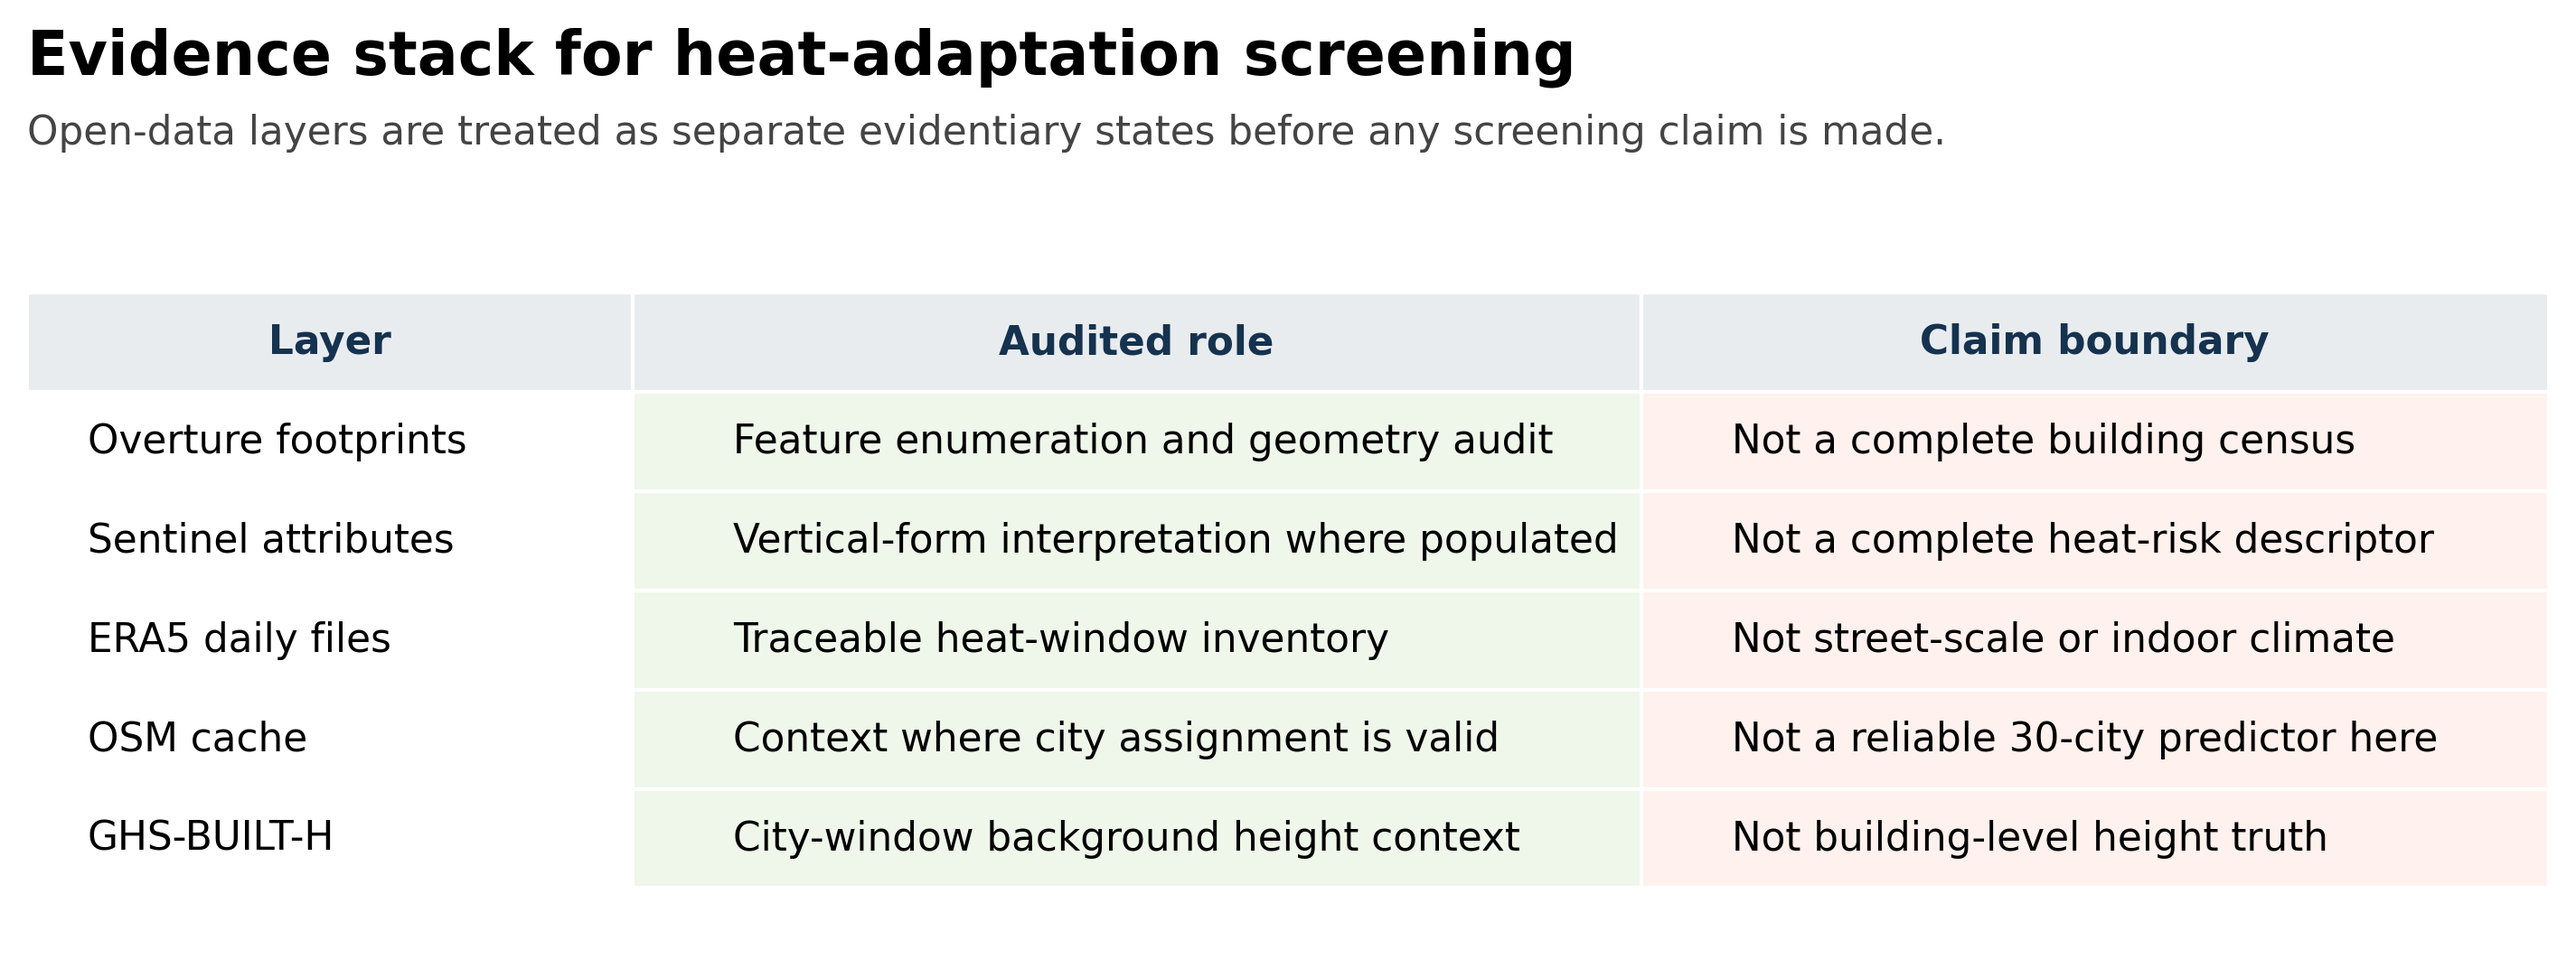
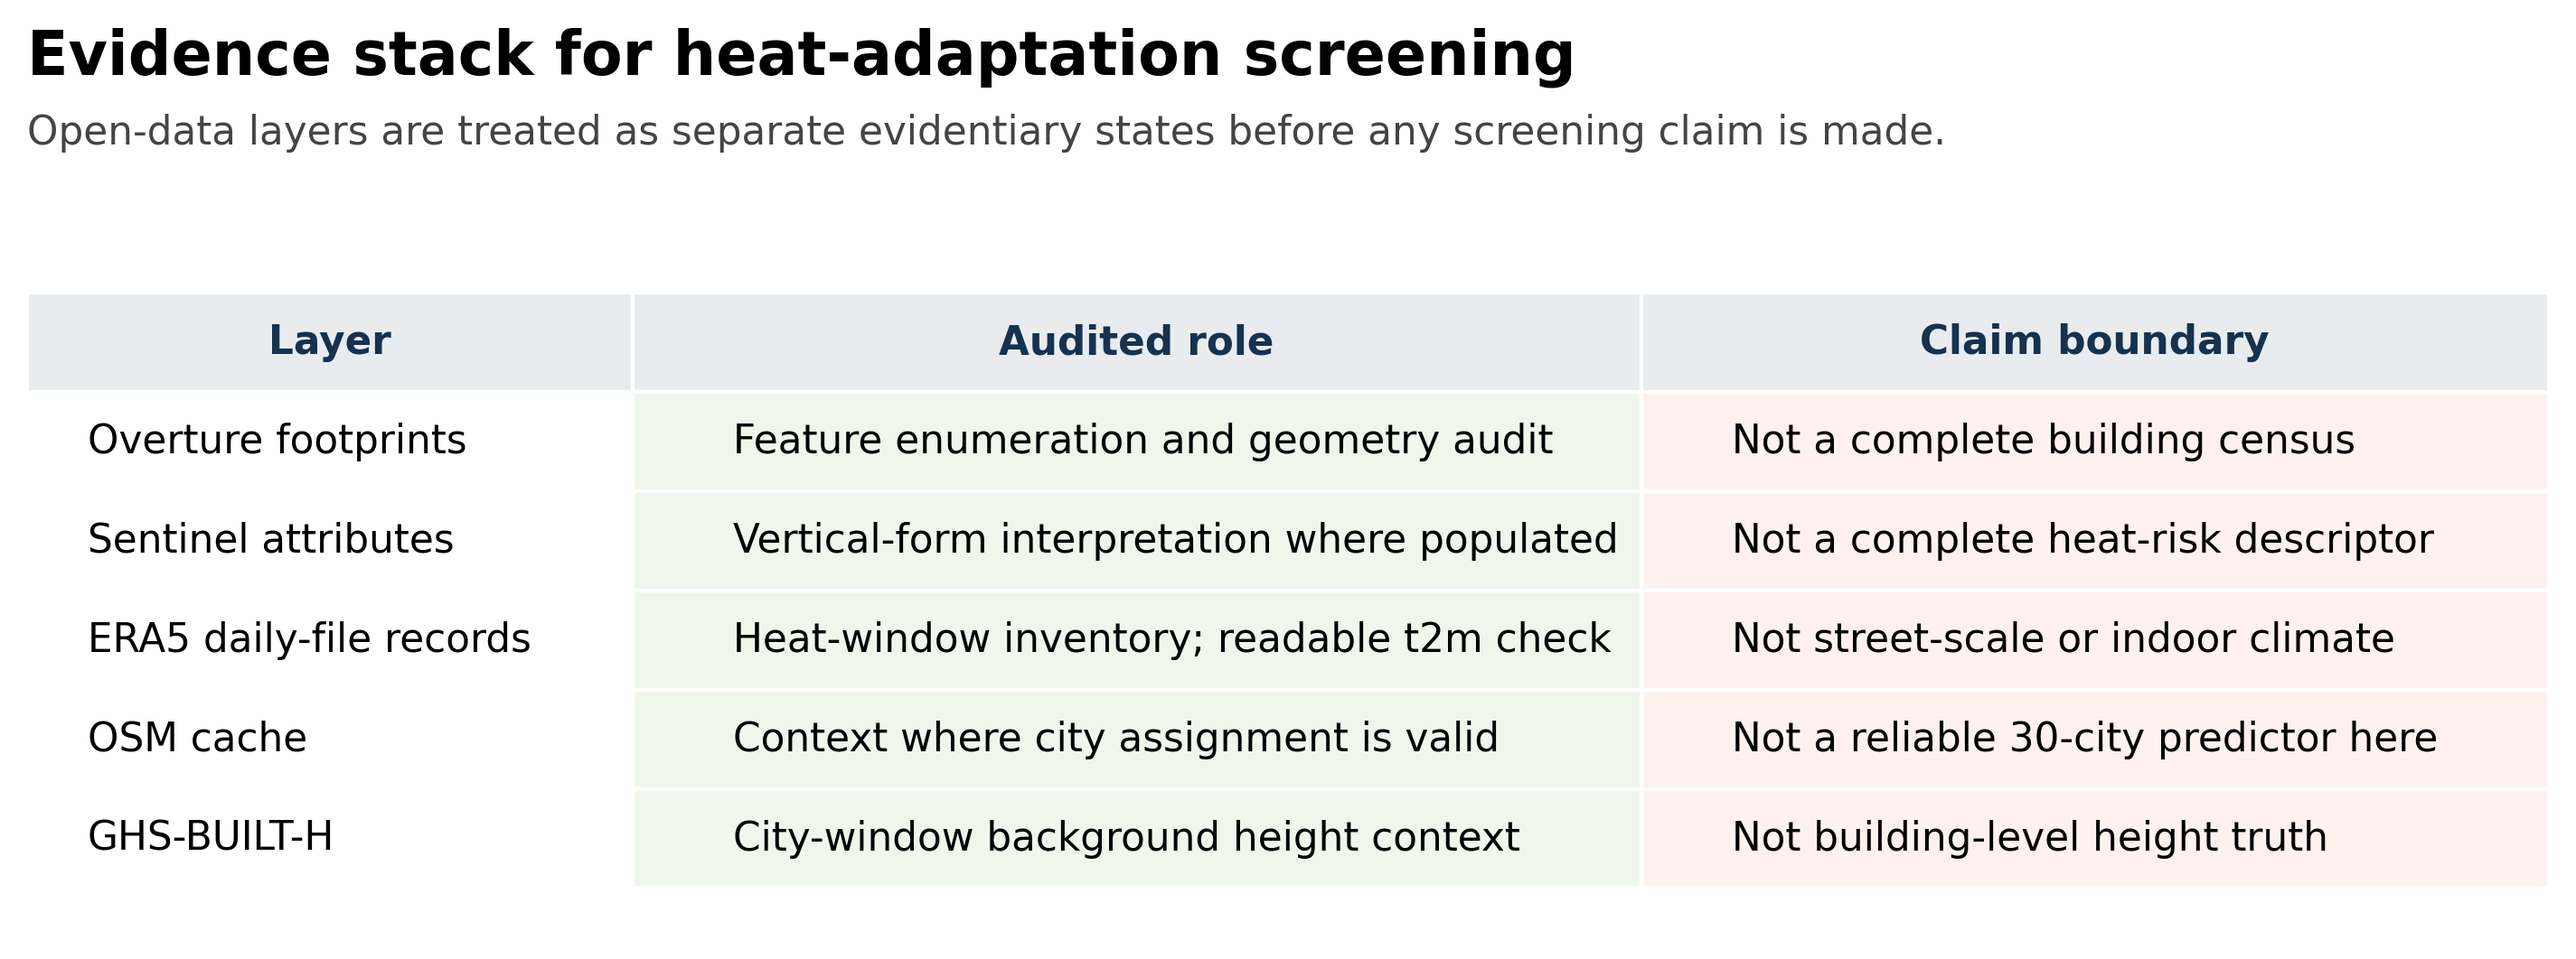
Add ERA5 heat-window readability summary

Changed region(s): [[0.2811, 0.6525, 0.6246, 0.6836], [0.1249, 0.6525, 0.2186, 0.6836]]

diff --git a/scripts/compute_era5_heat_window_summary.py b/scripts/compute_era5_heat_window_summary.py
@@ -1,0 +1,235 @@
+"""Compute a bounded ERA5 2 m temperature heat-window summary.
+
+The manuscript's A2 table is a file-level inventory. This script performs a
+separate readability and heat-indicator check on physical ERA5 files currently
+present in the local project tree. Some downloaded files are ZIP containers
+with an embedded NetCDF member, so the reader handles both plain NetCDF and
+ZIP-wrapped NetCDF inputs.
+"""
+
+from __future__ import annotations
+
+import argparse
+import csv
+import re
+import shutil
+import tempfile
+import zipfile
+from collections import defaultdict
+from datetime import datetime
+from pathlib import Path
+
+import numpy as np
+import xarray as xr
+
+
+PROJECT_DEFAULT = Path(__file__).resolve().parents[1]
+ERA5_NAME_RE = re.compile(r"(?P<city>.+?)_era5_(?P<date>\d{8})\.nc$", re.I)
+EXCLUDE_PARTS = {
+    ".git",
+    ".venv",
+    "venv",
+    "__pycache__",
+    "github_reproducibility_urban_climate",
+    "submission_urban_climate_2026-05-15",
+}
+
+
+def is_candidate(path: Path) -> bool:
+    if path.suffix.lower() != ".nc":
+        return False
+    if not ERA5_NAME_RE.match(path.name):
+        return False
+    lower_parts = {part.lower() for part in path.parts}
+    return not any(part.lower() in lower_parts for part in EXCLUDE_PARTS)
+
+
+def open_dataset(path: Path):
+    """Open a plain NetCDF file or a ZIP-wrapped NetCDF file."""
+    tmpdir = None
+    try:
+        if zipfile.is_zipfile(path):
+            tmpdir = Path(tempfile.mkdtemp(prefix="era5_zip_"))
+            with zipfile.ZipFile(path) as zf:
+                members = [name for name in zf.namelist() if name.lower().endswith(".nc")]
+                if not members:
+                    raise ValueError("ZIP container has no .nc member")
+                zf.extract(members[0], tmpdir)
+                target = tmpdir / members[0]
+        else:
+            target = path
+        ds = xr.open_dataset(target, engine="netcdf4")
+        return ds, tmpdir
+    except Exception:
+        if tmpdir is not None:
+            shutil.rmtree(tmpdir, ignore_errors=True)
+        raise
+
+
+def celsius(values: xr.DataArray) -> xr.DataArray:
+    units = str(values.attrs.get("units", "")).strip().lower()
+    if units in {"k", "kelvin"}:
+        return values - 273.15
+    return values
+
+
+def file_record(path: Path) -> dict[str, object]:
+    match = ERA5_NAME_RE.match(path.name)
+    if not match:
+        raise ValueError(f"Cannot parse ERA5 filename: {path.name}")
+    city = match.group("city")
+    date = datetime.strptime(match.group("date"), "%Y%m%d").date().isoformat()
+    record: dict[str, object] = {
+        "city": city,
+        "date": date,
+        "filename": path.name,
+        "readable": False,
+        "error": "",
+    }
+    tmpdir = None
+    ds = None
+    try:
+        ds, tmpdir = open_dataset(path)
+        if "t2m" not in ds.data_vars:
+            raise ValueError("t2m variable not found")
+        t2m = celsius(ds["t2m"])
+        record.update(
+            {
+                "readable": True,
+                "time_steps": int(t2m.sizes.get("valid_time", t2m.sizes.get("time", 0))),
+                "lat_points": int(t2m.sizes.get("latitude", 0)),
+                "lon_points": int(t2m.sizes.get("longitude", 0)),
+                "mean_t2m_c": round(float(t2m.mean(skipna=True).values), 3),
+                "max_t2m_c": round(float(t2m.max(skipna=True).values), 3),
+                "p95_t2m_c": round(float(t2m.quantile(0.95, skipna=True).values), 3),
+            }
+        )
+    except Exception as exc:
+        record["error"] = repr(exc)
+    finally:
+        if ds is not None:
+            ds.close()
+        if tmpdir is not None:
+            shutil.rmtree(tmpdir, ignore_errors=True)
+    return record
+
+
+def summarise(records: list[dict[str, object]]) -> list[dict[str, object]]:
+    by_city: dict[str, list[dict[str, object]]] = defaultdict(list)
+    for row in records:
+        by_city[str(row["city"])].append(row)
+    summary = []
+    for city, rows in sorted(by_city.items()):
+        readable = [row for row in rows if row.get("readable")]
+        dates = sorted(str(row["date"]) for row in readable)
+        max_values = np.array([float(row["max_t2m_c"]) for row in readable], dtype=float)
+        mean_values = np.array([float(row["mean_t2m_c"]) for row in readable], dtype=float)
+        if readable:
+            summary.append(
+                {
+                    "city": city,
+                    "physical_files_found": len(rows),
+                    "readable_temperature_files": len(readable),
+                    "first_readable_date": dates[0],
+                    "last_readable_date": dates[-1],
+                    "mean_daily_mean_t2m_c": round(float(mean_values.mean()), 3),
+                    "p95_daily_max_t2m_c": round(float(np.quantile(max_values, 0.95)), 3),
+                    "max_daily_max_t2m_c": round(float(max_values.max()), 3),
+                    "hot_days_tmax_ge_30c": int((max_values >= 30.0).sum()),
+                    "hot_days_tmax_ge_35c": int((max_values >= 35.0).sum()),
+                    "source_scope": "readable physical ERA5 files present in local project tree",
+                }
+            )
+        else:
+            summary.append(
+                {
+                    "city": city,
+                    "physical_files_found": len(rows),
+                    "readable_temperature_files": 0,
+                    "first_readable_date": "",
+                    "last_readable_date": "",
+                    "mean_daily_mean_t2m_c": "",
+                    "p95_daily_max_t2m_c": "",
+                    "max_daily_max_t2m_c": "",
+                    "hot_days_tmax_ge_30c": "",
+                    "hot_days_tmax_ge_35c": "",
+                    "source_scope": "readability check failed",
+                }
+            )
+    return summary
+
+
+def write_csv(path: Path, rows: list[dict[str, object]]) -> None:
+    path.parent.mkdir(parents=True, exist_ok=True)
+    if not rows:
+        path.write_text("", encoding="utf-8")
+        return
+    fields = list(rows[0].keys())
+    with path.open("w", newline="", encoding="utf-8") as handle:
+        writer = csv.DictWriter(handle, fieldnames=fields)
+        writer.writeheader()
+        writer.writerows(rows)
+
+
+def inventory_crosswalk(root: Path, records: list[dict[str, object]], physical_files: list[Path]) -> list[dict[str, object]]:
+    inv_path = root / "outputs" / "A2_era5_inventory.csv"
+    if not inv_path.exists():
+        return []
+    with inv_path.open(newline="", encoding="utf-8") as handle:
+        inv_rows = list(csv.DictReader(handle))
+    physical_names = {path.name for path in physical_files}
+    readable_names = {str(row["filename"]) for row in records if row.get("readable")}
+    cities = sorted({row["city"] for row in inv_rows} | {str(row["city"]) for row in records})
+    crosswalk = []
+    for city in cities:
+        inv_city = [row for row in inv_rows if row["city"] == city]
+        physical_city = [row for row in records if row["city"] == city]
+        crosswalk.append(
+            {
+                "city": city,
+                "A2_inventory_days": len(inv_city),
+                "A2_inventory_files_found_as_physical": sum(1 for row in inv_city if row["filename"] in physical_names),
+                "A2_inventory_files_readable_as_temperature": sum(1 for row in inv_city if row["filename"] in readable_names),
+                "physical_era5_files_present": len(physical_city),
+                "readable_temperature_files_present": sum(1 for row in physical_city if row.get("readable")),
+            }
+        )
+    return crosswalk
+
+
+def main() -> int:
+    parser = argparse.ArgumentParser()
+    parser.add_argument("--project-root", type=Path, default=PROJECT_DEFAULT)
+    parser.add_argument("--out-dir", type=Path, default=None)
+    args = parser.parse_args()
+
+    root = args.project_root.resolve()
+    out_dir = args.out_dir.resolve() if args.out_dir else root / "outputs"
+    candidates = sorted(path for path in root.rglob("*.nc") if is_candidate(path))
+    records = [file_record(path) for path in candidates]
+    daily_rows = [
+        {key: value for key, value in row.items() if key != "error"}
+        for row in records
+        if row.get("readable")
+    ]
+    summary_rows = summarise(records)
+    error_rows = [
+        {key: value for key, value in row.items() if key in {"city", "date", "filename", "readable", "error"}}
+        for row in records
+        if not row.get("readable")
+    ]
+
+    write_csv(out_dir / "A6_era5_readable_temperature_daily.csv", daily_rows)
+    write_csv(out_dir / "A6_era5_readable_temperature_window_summary.csv", summary_rows)
+    write_csv(out_dir / "A6_era5_readability_errors.csv", error_rows)
+    write_csv(out_dir / "A6_era5_inventory_physical_crosswalk.csv", inventory_crosswalk(root, records, candidates))
+
+    print(f"Scanned {len(candidates)} candidate physical ERA5 files")
+    print(f"Readable temperature files: {len(daily_rows)}")
+    print(f"Cities with readable temperature files: {len([row for row in summary_rows if row['readable_temperature_files']])}")
+    print(out_dir / "A6_era5_readable_temperature_window_summary.csv")
+    return 0
+
+
+if __name__ == "__main__":
+    raise SystemExit(main())

diff --git a/scripts/make_figures.py b/scripts/make_figures.py
@@ -36,7 +36,7 @@ def fig1_evidence_stack() -> None:
     rows = [
         ["Overture footprints", "Feature enumeration and geometry audit", "Not a complete building census"],
         ["Sentinel attributes", "Vertical-form interpretation where populated", "Not a complete heat-risk descriptor"],
-        ["ERA5 daily files", "Traceable heat-window inventory", "Not street-scale or indoor climate"],
+        ["ERA5 daily-file records", "Heat-window inventory; readable t2m check", "Not street-scale or indoor climate"],
         ["OSM cache", "Context where city assignment is valid", "Not a reliable 30-city predictor here"],
         ["GHS-BUILT-H", "City-window background height context", "Not building-level height truth"],
     ]
@@ -230,4 +230,3 @@ def main() -> None:
 
 if __name__ == "__main__":
     main()
-

diff --git a/README.md b/README.md
@@ -8,6 +8,7 @@ The associated manuscript is framed around a bounded claim: mapped open building
 
 - Derived audit tables in `data/`.
 - Figure-generation code in `scripts/make_figures.py`.
+- ERA5 readable-temperature summary code in `scripts/compute_era5_heat_window_summary.py`.
 - Generated PNG figure previews in `figures/`.
 - A reproducible runbook in `REPRODUCIBLE_RUNBOOK.md`.
 - Dataset source links and redistribution boundaries in `DATASETS_AND_LINKS.csv`.
@@ -21,6 +22,8 @@ This repository intentionally excludes raw third-party data, local download arch
 
 The public derived tables record 1,454,543 audited Overture building features across 30 city-level files. The Overture `height` field is treated as a sentinel attribute for vertical-form interpretability rather than as a complete heat-risk descriptor. Its city-level non-null availability is highly uneven, with the current audit producing an actionable / proxy-limited / evidence-blind split of 4 / 19 / 7 cities.
 
+The A6 derived tables add a bounded ERA5 readability check: 54 physical ERA5 files currently present in the local project tree were readable as hourly `t2m` files, allowing daily maximum 2 m temperature summaries across 12 cities. This is a heat-window validation subset, not a replacement for the full A2 daily-file inventory and not a city risk ranking.
+
 ## Quick start
 
 ```bash
@@ -32,6 +35,12 @@ python scripts\make_figures.py
 
 Generated figures are written to `figures/`.
 
+To rerun the optional ERA5 temperature-readability summary, place source ERA5 `.nc` files under the project tree and run:
+
+```bash
+python scripts\compute_era5_heat_window_summary.py --project-root .
+```
+
 ## Repository boundary
 
 The package supports reproducibility of the public audit tables and figures. It is not a heat-risk model, mortality model, indoor-temperature model, microclimate simulation or causal-impact estimate.
@@ -39,4 +48,3 @@ The package supports reproducibility of the public audit tables and figures. It 
 ## Citation
 
 Please cite the associated paper when it is available. Until then, cite this repository and the original data products listed in `DATASETS_AND_LINKS.csv`.
-

diff --git a/REPRODUCIBLE_RUNBOOK.md b/REPRODUCIBLE_RUNBOOK.md
@@ -6,7 +6,7 @@ This runbook reproduces the public figures from already-derived audit tables. It
 
 ## Environment
 
-Tested with Python 3.11 on Windows. The script uses only `matplotlib` and the Python standard library.
+Tested with Python 3.11 on Windows. Figure reproduction uses `matplotlib` and the Python standard library. The optional ERA5 temperature-readability summary also uses `numpy`, `xarray` and `netCDF4`.
 
 ```bash
 pip install -r requirements.txt
@@ -24,9 +24,20 @@ Supporting derived audit tables:
 - `data/A2_era5_inventory.csv`
 - `data/A3_osm_file_city_map.csv`
 - `data/A5_ghs_city_join.csv`
+- `data/A6_era5_readable_temperature_daily.csv`
+- `data/A6_era5_readable_temperature_window_summary.csv`
+- `data/A6_era5_inventory_physical_crosswalk.csv`
 - `data/city_manifest.csv`
 
 The public A1 table replaces local source paths with portable source file names.
+
+## Optional ERA5 temperature-readability summary
+
+The A6 tables document a bounded physical-file readability check. When readable ERA5 files are available locally, the script extracts hourly `t2m`, converts kelvin to degrees Celsius, and summarises daily mean, daily maximum and 95th-percentile 2 m temperature. The current public derived A6 summary covers 54 readable physical files across 12 cities. It is a validation subset and is not used to reclassify the main typology.
+
+```bash
+python scripts/compute_era5_heat_window_summary.py --project-root .
+```
 
 ## Reproduce figures
 
@@ -53,4 +64,3 @@ After running the script, confirm that:
 ## Data boundary
 
 The repository contains derived audit tables only. To rerun the original raw-data audits, obtain the source datasets from the providers listed in `DATASETS_AND_LINKS.csv` and follow their respective terms of use.
-

diff --git a/data/README.md b/data/README.md
@@ -8,7 +8,12 @@ This directory contains derived audit tables only.
 - `A2_era5_inventory.csv`: derived inventory of audited ERA5 daily files by city and date. Raw file names are excluded.
 - `A3_osm_file_city_map.csv`: derived OSM cache assignment audit. Cache file names are excluded.
 - `A5_ghs_city_join.csv`: derived GHS city-join support table.
+- `A6_era5_readable_temperature_daily.csv`: daily 2 m temperature summaries for readable physical ERA5 files available in the local project tree; public copy excludes local file names.
+- `A6_era5_readable_temperature_window_summary.csv`: city-level summary of the readable ERA5 temperature subset.
+- `A6_era5_inventory_physical_crosswalk.csv`: crosswalk between the A2 inventory and physical files found locally for the readability check.
 - `city_manifest.csv`: 30-city audit manifest with high-level layer availability.
 - `evidence_readiness_scores.csv`: final city-level readiness typology used by the figures.
+
+The A6 tables are a heat-window validation subset. They do not replace the full A2 inventory and should not be read as a complete ERA5 coverage or heat-risk product.
 
 No raw Overture, ERA5, OSM or GHSL files are redistributed here.

diff --git a/docs/PAPER_SUMMARY.md b/docs/PAPER_SUMMARY.md
@@ -19,7 +19,8 @@ The audit separates four evidentiary states that are often blended too quickly i
 
 The central public message is that building footprints alone are not building-scale heat-adaptation evidence. Attribute completeness, climate-window coverage and context-layer validity must be checked before adaptation claims are made.
 
+A bounded A6 readability check demonstrates that, where physical ERA5 files are present and readable, the workflow can extract daily maximum 2 m temperature summaries. This strengthens the urban-climate orientation of the audit while keeping the heat indicator separate from the evidence-readiness typology.
+
 ## Claim boundary
 
 This package supports evidence-readiness screening. It does not estimate heat mortality, actual building-level risk, indoor heat, intervention effectiveness or causal climate-adaptation impact.
-
